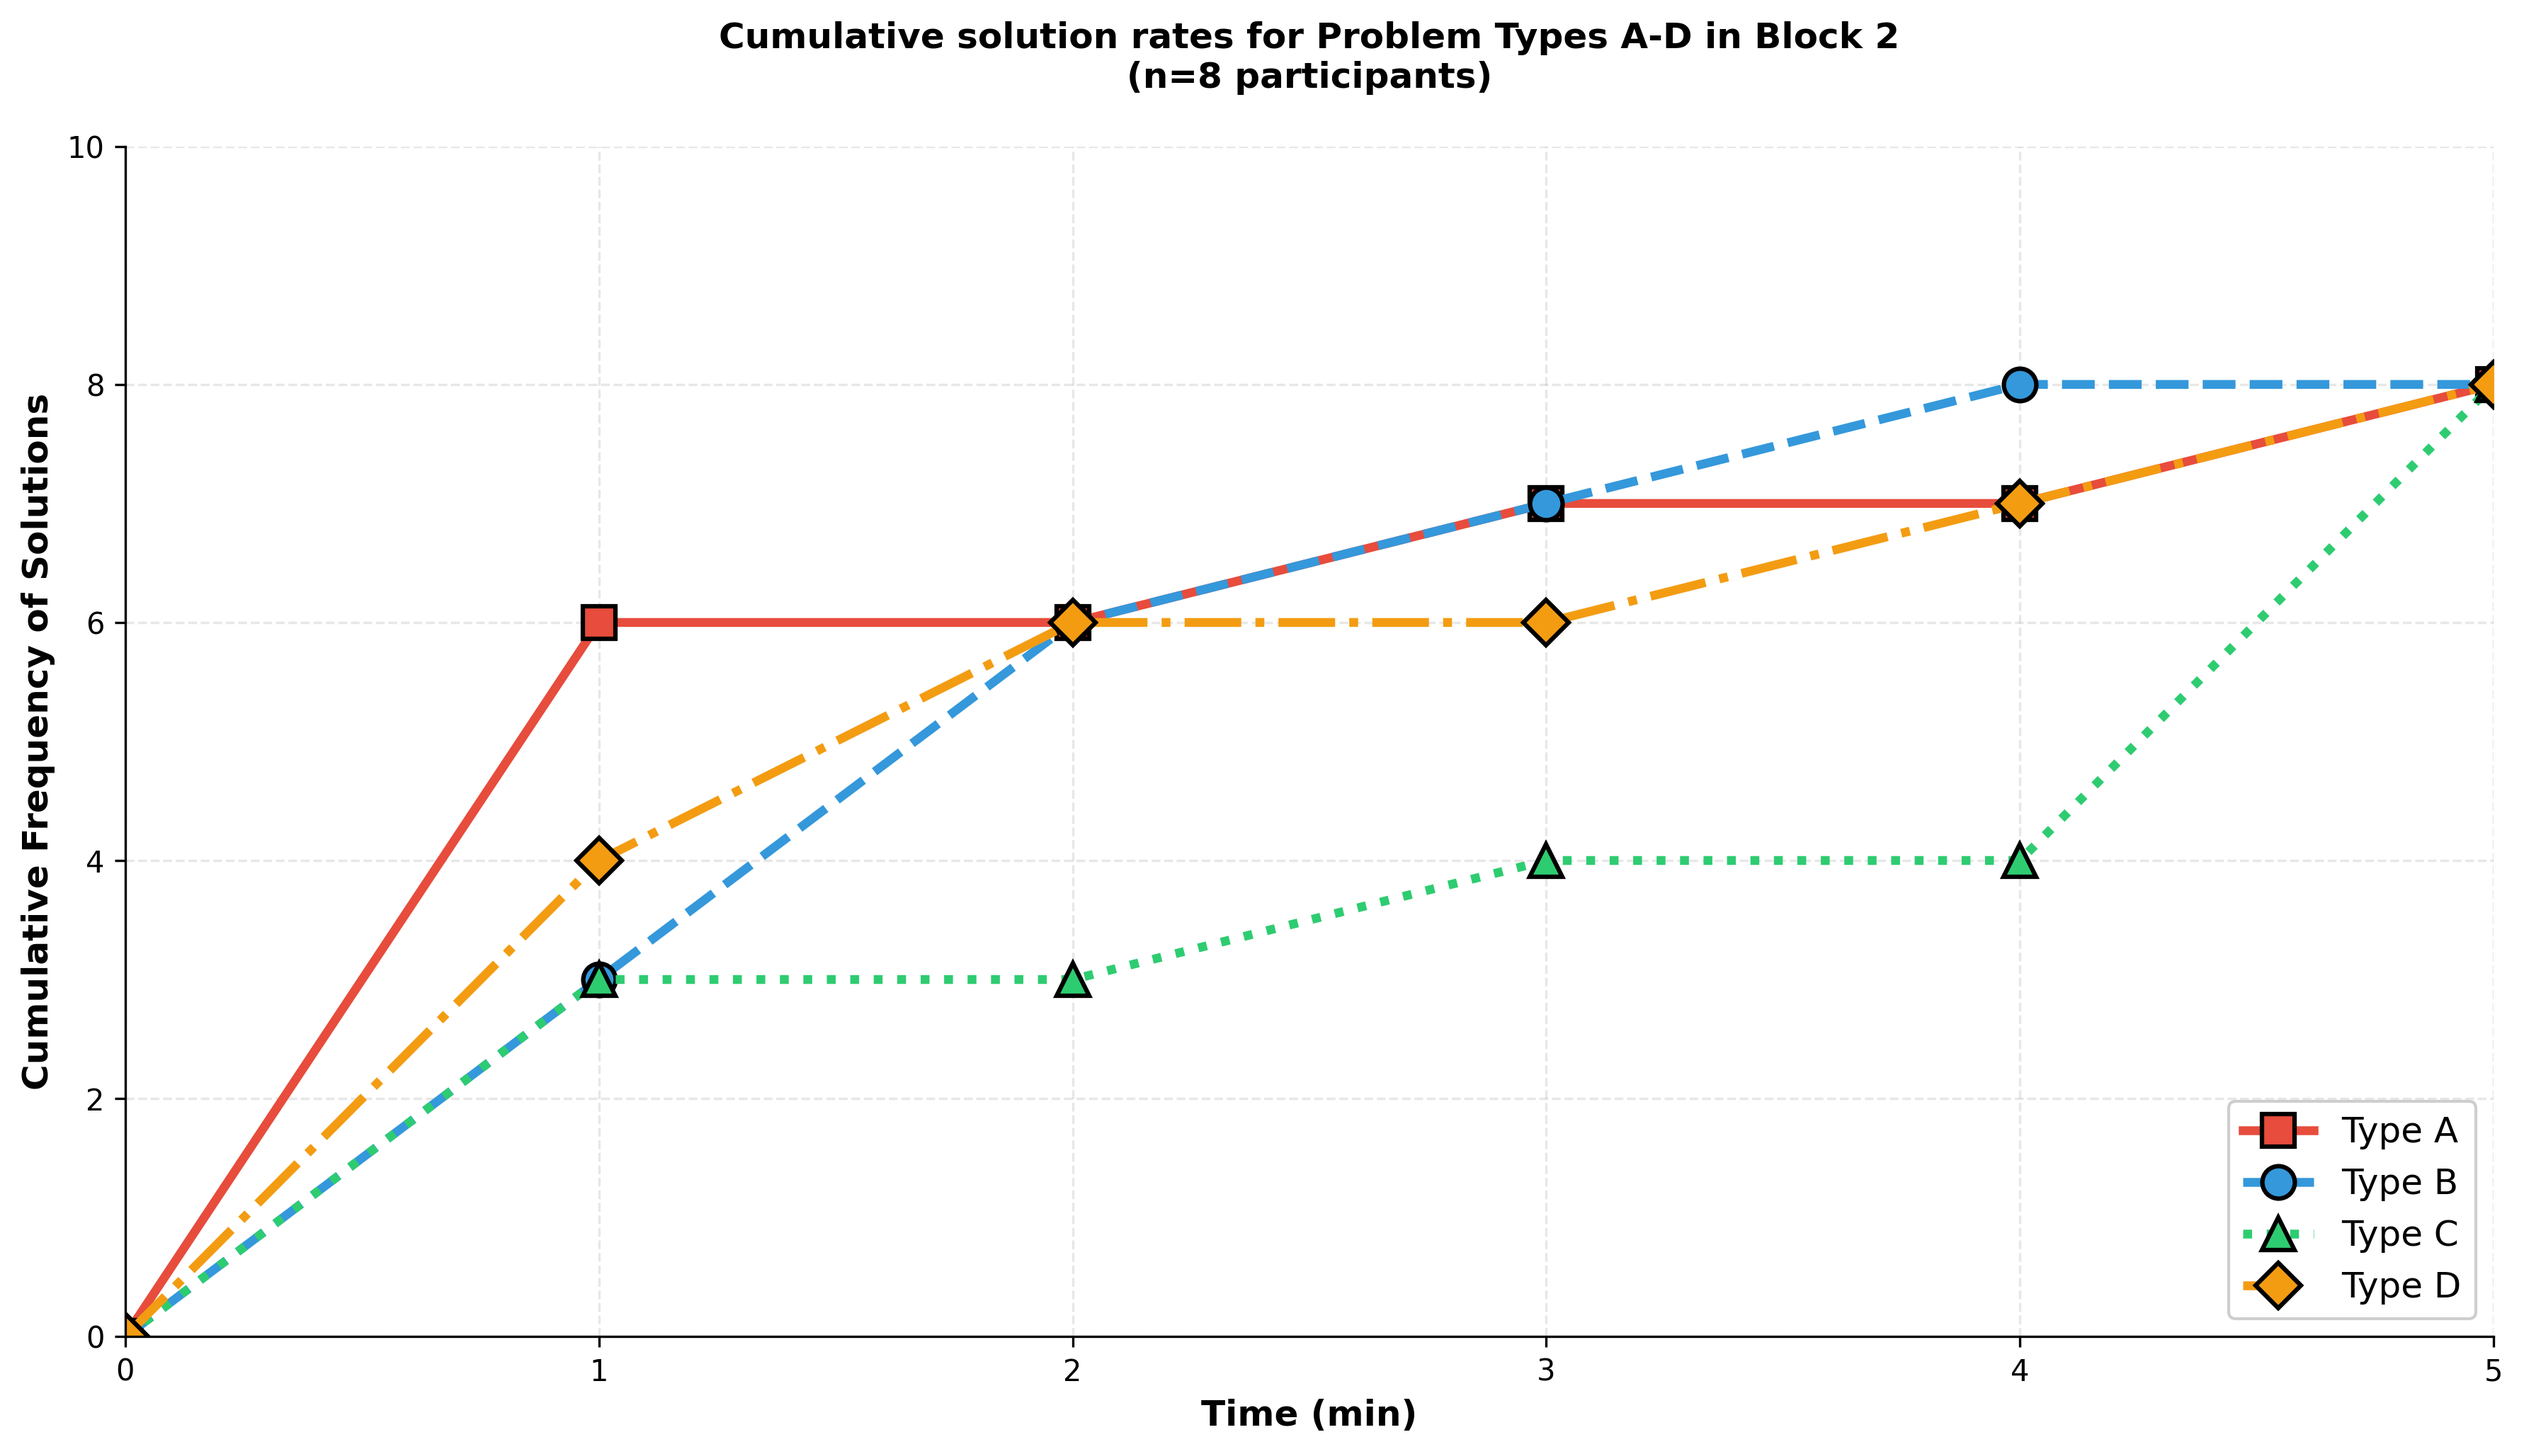
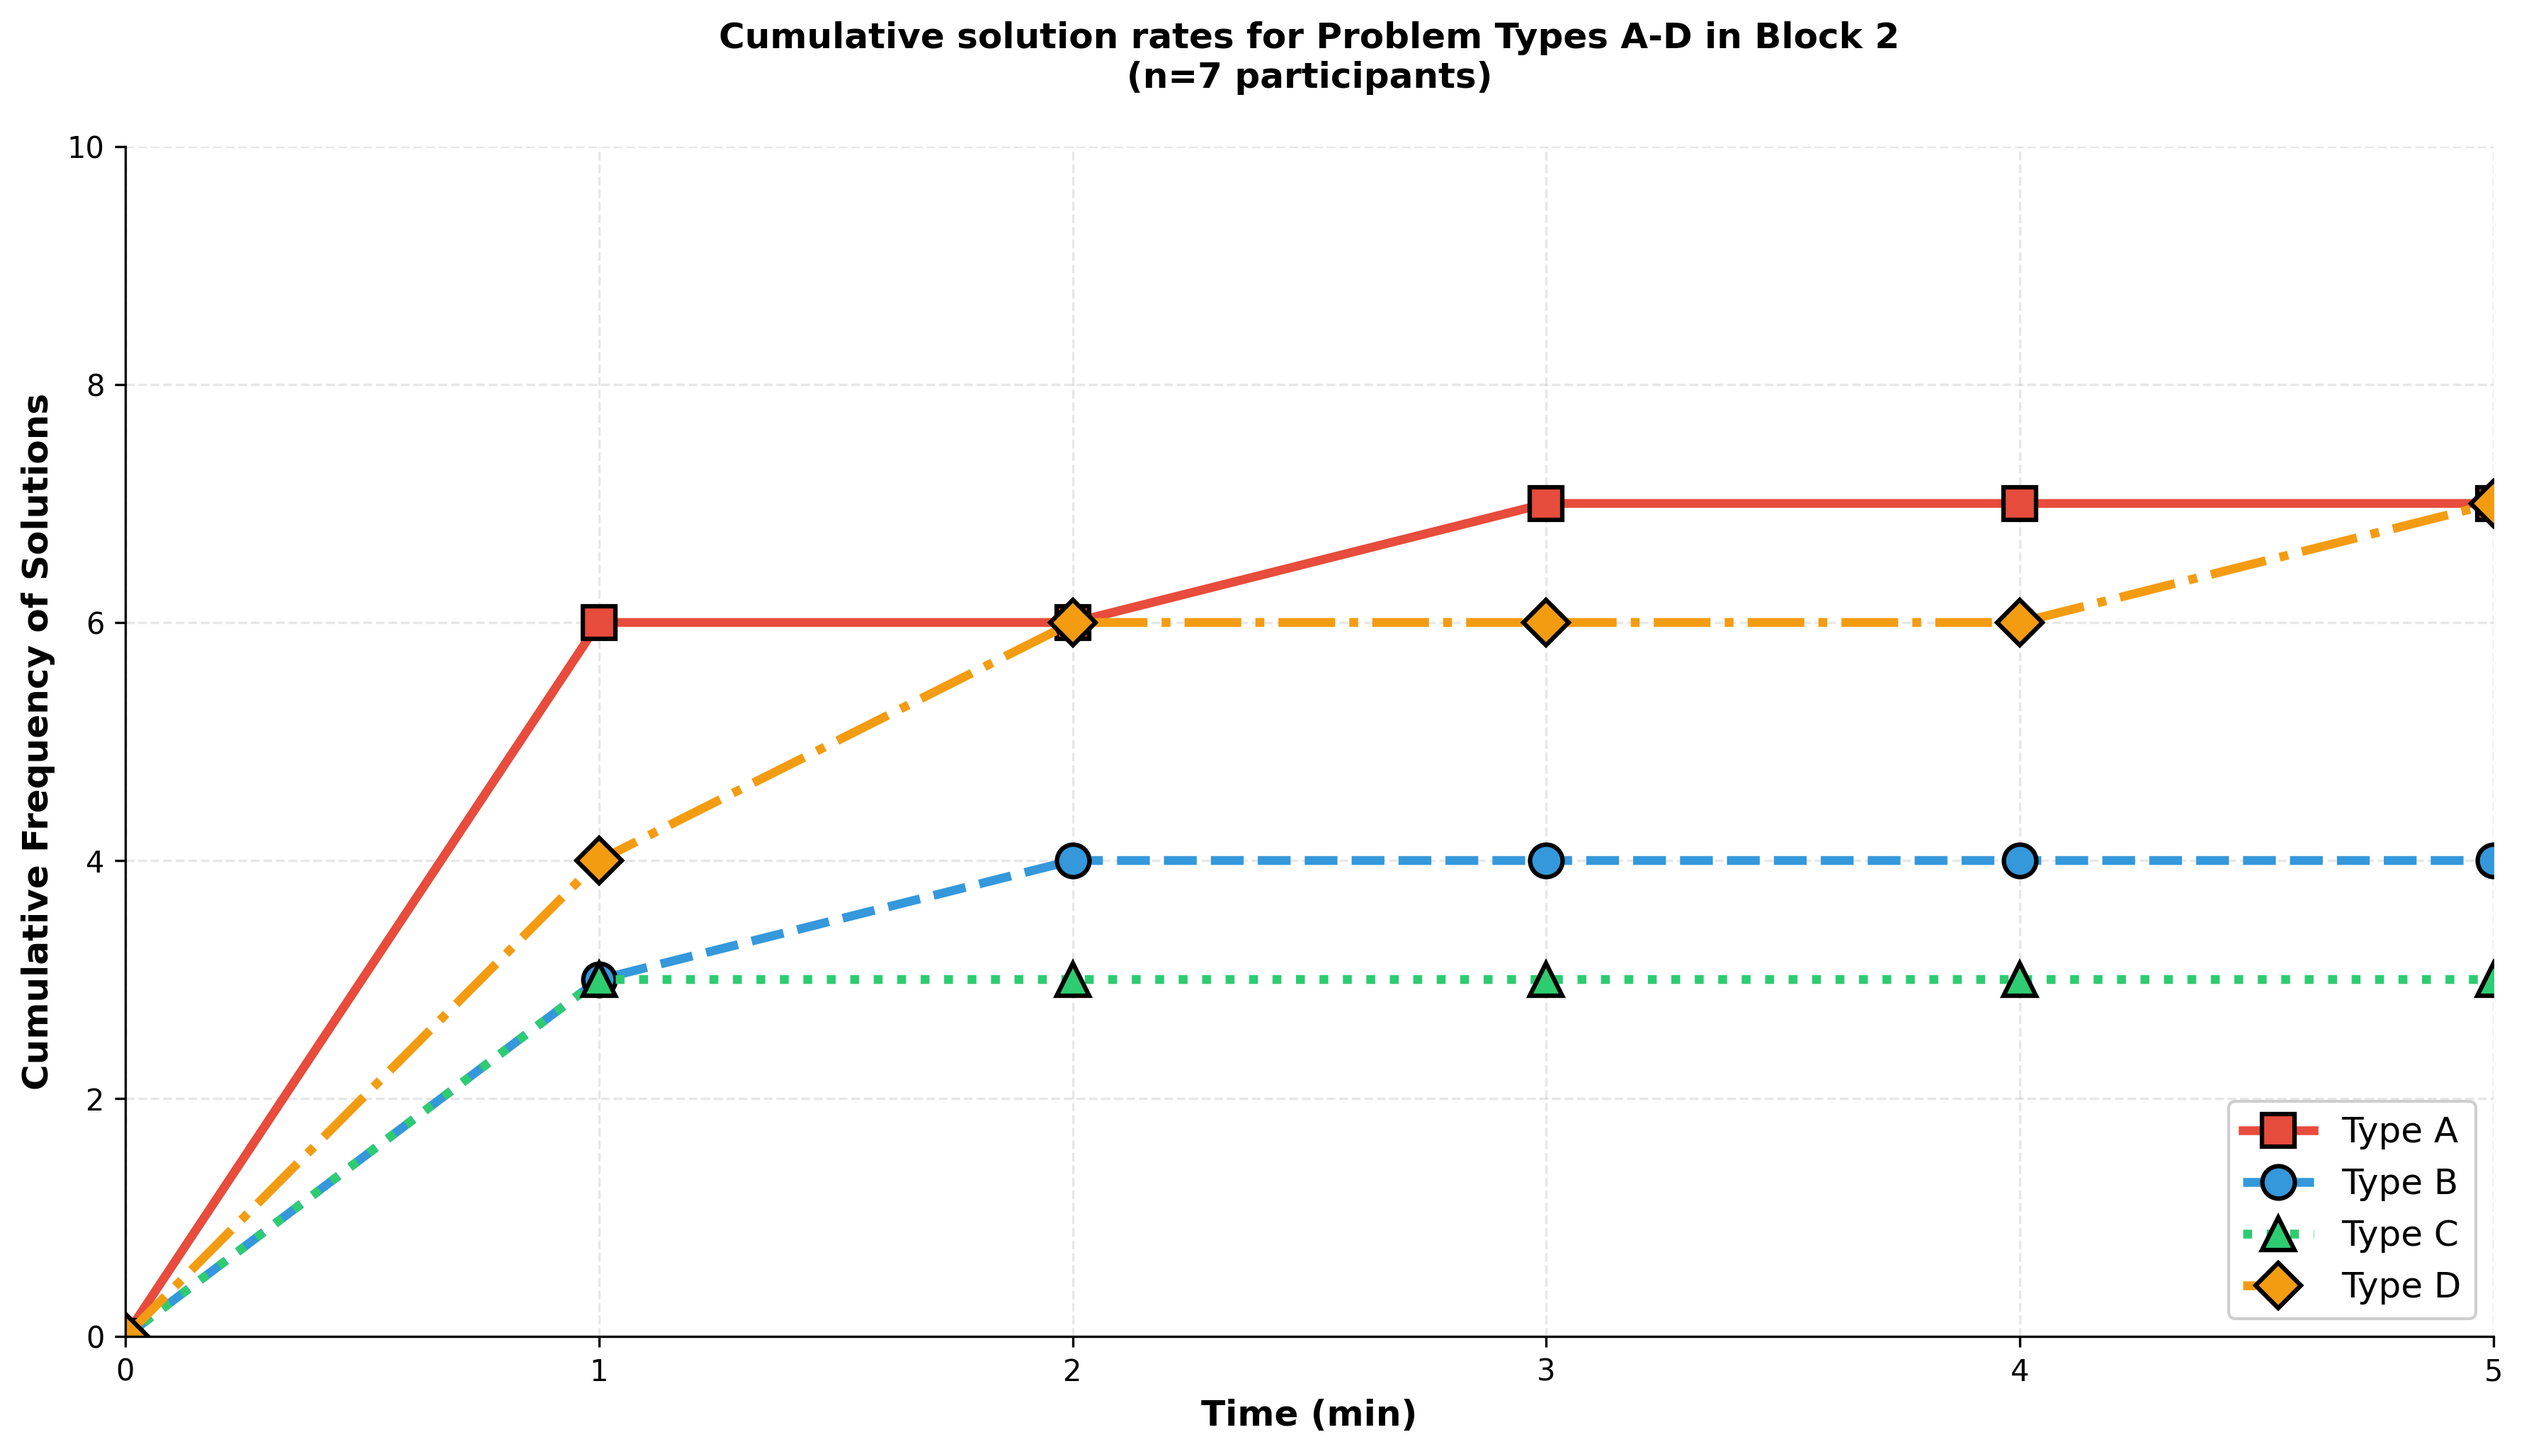
Fix: Count only solved problems in cumulative frequency graphs

diff --git a/analisis_resultados.py b/analisis_resultados.py
@@ -62,6 +62,7 @@ def cargar_csv_experimento(ruta_carpeta):
 def procesar_datos_por_bloque(df):
     """
     Procesa los datos y los agrupa por bloque y tipo de problema.
+    Solo cuenta los problemas RESUELTOS para la frecuencia acumulada.
     
     Args:
         df (pd.DataFrame): DataFrame con los resultados
@@ -82,11 +83,15 @@ def procesar_datos_por_bloque(df):
             # Convertir tiempo a minutos
             tiempos_min = df_tipo['Tiempo_Segundos'] / 60.0
             
+            # IMPORTANTE: Solo contar tiempos de RESUELTOS para frecuencia acumulada
+            df_resueltos = df_tipo[df_tipo['Resuelto'] == 'S']
+            tiempos_resueltos_min = df_resueltos['Tiempo_Segundos'] / 60.0
+            
             datos_bloque[tipo] = {
                 'resueltos': (df_tipo['Resuelto'] == 'S').sum(),
                 'total': len(df_tipo),
                 'tiempo_promedio': tiempos_min.mean(),
-                'tiempos': tiempos_min.values
+                'tiempos': tiempos_resueltos_min.values  # Solo tiempos RESUELTOS
             }
         
         datos_por_bloque[bloque] = datos_bloque
